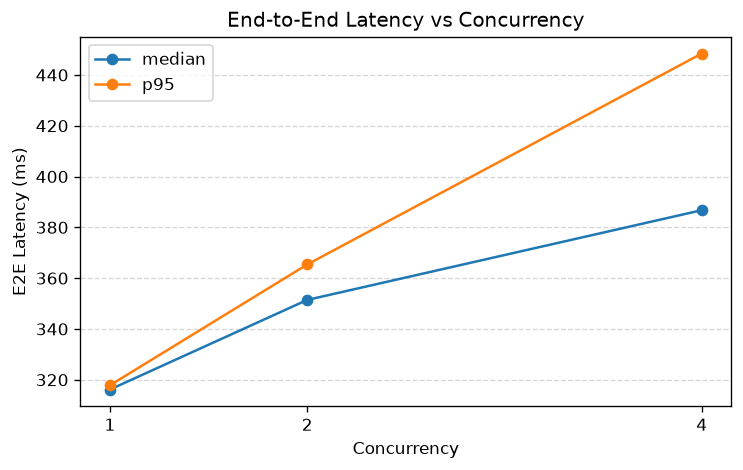
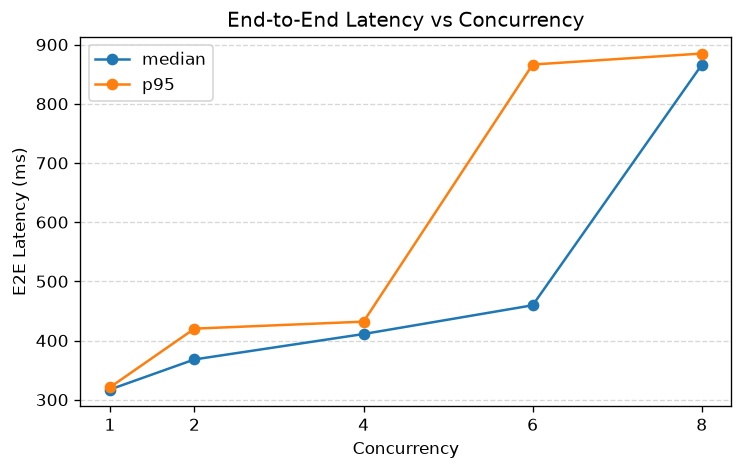
phase2: add saturation analysis and plots
Adds the 4th concurrency plot (phase2_latency_throughput_tradeoff.png) and
regenerates all plots plus the committed summary CSV from the live 1/2/4/6/8
sweep. Documents the saturation study in the README: throughput plateaus
past max_num_seqs=4 (202.9 -> ~189 tok/s at concurrency 6-8) while median
TTFT grows ~12x from concurrency 4 to 8, consistent with client-side
queueing once concurrency exceeds server scheduling capacity. Explicitly
caveats this as an inferred effect from client timing, not a direct
server-side queue measurement.

diff --git a/README.md b/README.md
@@ -415,9 +415,11 @@ python scripts/run_concurrency_benchmark.py --config configs/phase2_concurrency.
 Reads `configs/phase2_concurrency.yaml`. The same prompt, `max_tokens`,
 `temperature`, and streaming mode are used across every concurrency level
 so results are comparable to each other. Before running, the script prints
-the live server's configured `max_num_seqs` — concurrency levels above that
-value are not meaningfully testable (the server itself would queue beyond
-that limit).
+the live server's configured `max_num_seqs`. Concurrency levels at or below
+`max_num_seqs` measure the server's normal scheduling behavior; levels
+*above* `max_num_seqs` are used deliberately in the saturation study below
+to observe client-side queueing effects once client concurrency exceeds
+what the server can actively schedule.
 
 ### Generate CSV and plots
 
@@ -427,26 +429,34 @@ python scripts/plot_concurrency_results.py results/processed/phase2_concurrency_
 ```
 
 Produces `results/processed/phase2_concurrency_summary.csv` (one row per
-concurrency level) and three PNGs under `results/plots/`:
+concurrency level) and four PNGs under `results/plots/`:
 
 - `phase2_ttft_vs_concurrency.png`
 - `phase2_e2e_vs_concurrency.png`
 - `phase2_throughput_vs_concurrency.png`
+- `phase2_latency_throughput_tradeoff.png`
 
 ### Phase 2B Results (RTX 3050 Laptop, 4 GB VRAM)
 
-Concurrency levels 1, 2, and 4 against `google/gemma-3-1b-it`, 30 measured
-requests per level (3 warm-up requests discarded), identical prompt,
-`max_tokens=32`, `temperature=0`, streaming enabled, `max_num_seqs=4` on the
-server (so concurrency 4 is the highest level meaningfully testable here).
+Concurrency levels 1, 2, 4, 6, and 8 against `google/gemma-3-1b-it`, all
+run in a single controlled session (same server process throughout), 30
+measured requests per level (3 warm-up requests discarded before each
+level), identical prompt, `max_tokens=32`, `temperature=0`, streaming
+enabled, `max_num_seqs=4` on the server — **unchanged** for this study.
+Levels 6 and 8 intentionally exceed `max_num_seqs` to study saturation.
 
-| Concurrency | Success/Fail | TTFT median/P95/P99 (ms) | approx TPOT median/P95 (ms) | E2E median/P95/P99 (ms) | Req/s | Output tok/s |
-|---|---|---|---|---|---|---|
-| 1 | 30/0 | 31.1 / 32.4 / 32.8 | 13.6 / 13.7 | 316.2 / 317.8 / 318.1 | 3.16 | 69.6 |
-| 2 | 30/0 | 34.5 / 37.7 / 38.1 | 15.1 / 15.8 | 351.4 / 365.4 / 365.4 | 5.63 | 123.8 |
-| 4 | 30/0 | 37.1 / 44.3 / 44.4 | 16.6 / 19.4 | 386.7 / 448.4 / 448.6 | 9.26 | 203.7 |
+| Concurrency | Success/Fail | TTFT median/P95/P99 (ms) | approx TPOT median/P95 (ms) | E2E median/P95/P99 (ms) | Req/s | Output tok/s | Throughput scaling vs c=1 |
+|---|---|---|---|---|---|---|---|
+| 1 | 30/0 | 31.9 / 33.2 / 33.4 | 13.6 / 13.7 | 317.2 / 320.9 / 321.7 | 3.15 | 69.2 | 1.00x |
+| 2 | 30/0 | 35.6 / 41.8 / 42.1 | 15.8 / 18.1 | 368.0 / 420.1 / 420.2 | 5.41 | 119.0 | 1.72x |
+| 4 | 30/0 | 38.1 / 40.7 / 41.3 | 17.9 / 18.6 | 411.0 / 431.9 / 432.1 | 9.22 | 202.9 | 2.93x |
+| 6 | 30/0 | 64.4 / 473.2 / 486.0 | 18.8 / 19.0 | 459.5 / 866.2 / 880.6 | 8.59 | 189.0 | 2.73x |
+| 8 | 30/0 | 471.3 / 491.1 / 491.6 | 18.8 / 18.9 | 865.7 / 884.8 / 885.9 | 8.62 | 189.6 | 2.74x |
 
 Full results: [`results/processed/phase2_concurrency_summary.csv`](results/processed/phase2_concurrency_summary.csv)
+(includes `throughput_scaling_vs_c1`, `ttft_median_increase_vs_c1`, and
+`e2e_median_increase_vs_c1` — simple current/concurrency-1 ratios, not a
+saturation classifier)
 
 ![TTFT vs Concurrency](results/plots/phase2_ttft_vs_concurrency.png)
 
@@ -454,28 +464,70 @@ Full results: [`results/processed/phase2_concurrency_summary.csv`](results/proce
 
 ![Throughput vs Concurrency](results/plots/phase2_throughput_vs_concurrency.png)
 
-Zero request failures across all 90 measured requests (30 × 3 levels).
+![Latency vs Throughput Tradeoff](results/plots/phase2_latency_throughput_tradeoff.png)
+
+Zero request failures across all 150 measured requests (30 × 5 levels).
 GPU memory held steady at ~3.8 GB (of 4 GB) throughout, including at
-concurrency 4. Both latency (TTFT and E2E, median and P95) and throughput
-(requests/s and output tokens/s) increase together with concurrency — the
-server is doing more useful work per second at higher concurrency, at the
-cost of higher per-request latency, consistent with request batching in
-vLLM's continuous scheduler rather than resource contention or instability.
+concurrency 8 — no OOM at any level.
+
+### Saturation study: concurrency beyond `max_num_seqs`
+
+`max_num_seqs` stayed fixed at 4 for this entire sweep — it was not
+increased. From concurrency 1 to 4, throughput and latency both scale up
+roughly together (throughput reaches 2.93x the concurrency-1 rate by
+concurrency 4). At concurrency 6 and 8 — both **above** `max_num_seqs=4` —
+a clear pattern emerges instead:
+
+- **Throughput plateaus.** Output tokens/s actually *drops slightly* from
+  202.9 (concurrency 4) to 189.0-189.6 (concurrency 6 and 8) — additional
+  client concurrency beyond the server's `max_num_seqs` produces no further
+  throughput gain.
+- **Latency grows sharply and disproportionately.** Median TTFT jumps from
+  38 ms (concurrency 4) to 64 ms (concurrency 6) to 471 ms (concurrency 8)
+  — a ~12x increase from concurrency 4 to 8, while throughput is flat to
+  slightly down over the same range. Median E2E latency roughly doubles
+  from concurrency 4 to 8 (411 ms → 866 ms).
+
+This pattern — latency rising steeply while throughput stays flat or
+declines — is consistent with requests **queueing** once client concurrency
+exceeds `max_num_seqs`: extra in-flight requests must wait for one of the
+server's 4 actively-scheduled sequence slots to free up before they are
+processed at all, inflating client-observed TTFT and E2E latency without
+increasing completed work per second.
+
+**Important caveat:** this is an *inferred* queueing effect from
+client-side timing, not a direct measurement of server-side queue depth or
+wait time. vLLM does not expose per-request queue-wait metrics through the
+OpenAI-compatible API used here; a direct measurement would require
+server-side instrumentation (e.g. Prometheus metrics), which is out of
+scope for this phase. The client can only observe that total latency grew
+far more than completed work did — that is evidence consistent with
+queueing, not proof of a specific queue-wait duration.
+
+One benign warning appeared once in the server log during this run:
+`Triton kernel JIT compilation during inference: _compute_slot_mapping_kernel.
+This causes a latency spike; consider extending warmup to cover this
+shape/config.` — a one-time JIT compile for a batch shape not seen during
+warmup. It occurred early in the sweep and does not affect the reported
+per-level statistics (each level's own warm-up requests are discarded
+before measurement begins).
 
 ### Why these results validate the workflow, not cloud serving capacity
 
-All three concurrency levels ran against the *same* local RTX 3050 Laptop
+All five concurrency levels ran against the *same* local RTX 3050 Laptop
 GPU process — a single 4 GB card with `max_num_seqs=4` and a 2048-token
 context cap. This confirms the closed-loop benchmark harness, metric
-definitions, and aggregation pipeline all work correctly end-to-end. It
-does not indicate what throughput or latency this model would achieve on
-server-grade hardware (e.g. an A10G/A100 in the cloud), which would support
-far higher `max_num_seqs`, larger `gpu_memory_utilization` headroom, and
-different batching behavior. Phase 2A's single-request smoke-test numbers
-are also not directly comparable to these Phase 2B numbers, since Phase 2A
-used a different prompt/config run at a different time — only results
-produced under identical prompt/config/methodology (as within this Phase
-2B table) should be compared to each other.
+definitions, aggregation pipeline, and saturation-detection logic all work
+correctly end-to-end, and that the queueing pattern above `max_num_seqs` is
+a real, reproducible signal — not an artifact of the harness. It does not
+indicate what throughput, latency, or maximum concurrency this model would
+achieve on server-grade hardware (e.g. an A10G/A100 in the cloud with a
+much higher `max_num_seqs` and more VRAM headroom). Phase 2A's
+single-request smoke-test numbers are also not directly comparable to
+these Phase 2B numbers, since Phase 2A used a different prompt/config run
+at a different time — only results produced under identical
+prompt/config/methodology (as within this Phase 2B table) should be
+compared to each other.
 
 ---
 